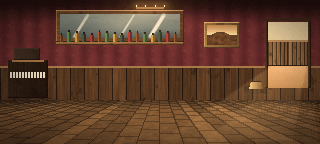
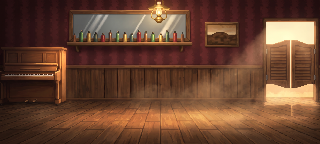
Kapitel 3: alle sieben Hintergründe von 1885 mit Higgsfield neu gezeichnet
Die alten Bilder dienten als Vorlage für die Anordnung, die neuen Bilder von
1955 als Stilvorlage; warmes Nachmittagslicht im Wilden Westen. Klickflächen,
Ausgänge, Stadtplanziele und Effekte passen ohne Änderung.

diff --git a/tools/paint/build.ts b/tools/paint/build.ts
@@ -110,6 +110,8 @@ const UI: Record<string, () => Picture> = {
 const EIGENE_BILDER = new Set(['titel', 'martys_zimmer_1986', 'kueche_1986', 'arbeitszimmer_1986', 'vorgarten_1986', 'vorgarten_1986_tannenburg', 'veranda_1986', 'docs_labor_1986', 'stadtplan_1986', 'stadtplan_1986_tannenburg', 'rathausplatz_1986', 'rathausplatz_1986_tannenburg', 'turmeingang_1986', 'uhrwerk_1986', 'schule_flur_1986', 'bandraum_1986', 'schuelerzeitung_1986',
   // Hintergründe 1955, mit Higgsfield neu gezeichnet
   'uhrwerk_1955', 'rathausplatz_1955', 'docs_labor_1955', 'cafe_1955', 'radioladen_1955', 'schule_flur_1955', 'strasse_1955', 'stadtplan_1955',
+  // Hintergründe 1885, mit Higgsfield neu gezeichnet
+  'abstellgleis_1885', 'festplatz_1885', 'mietstall_1885', 'saloon_1885', 'schmiede_1885', 'stadtplan_1885', 'uhrwerk_1885',
   // Gegenstände
   'foto_stufe0', 'foto_stufe1', 'foto_stufe2', 'foto_stufe3', 'foto_stufe4', 'kugelschreiber', 'skateboard', 'skateboard_wand',
   'banane', 'bananenschale', 'x_mikrowelle', 'diktiergeraet',
